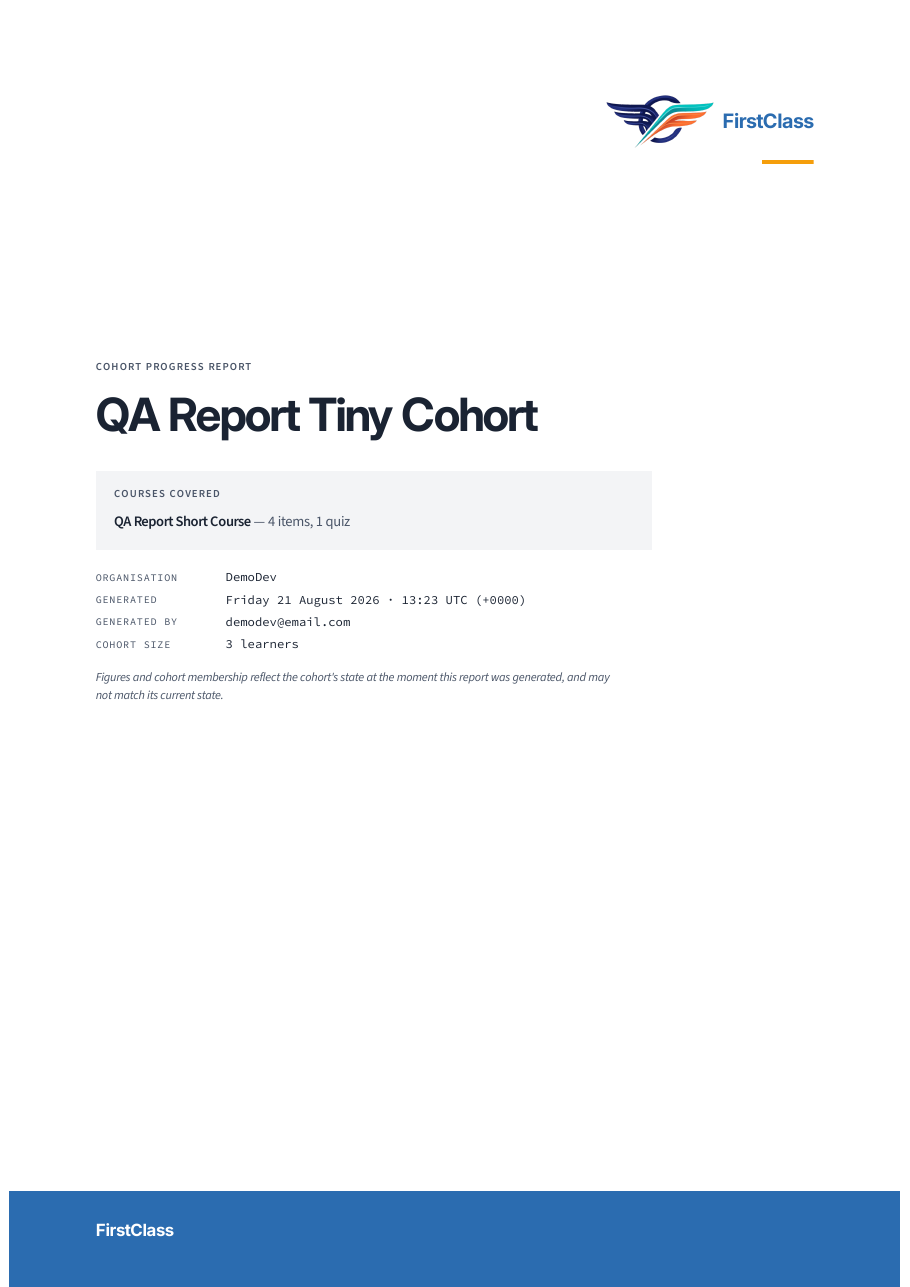
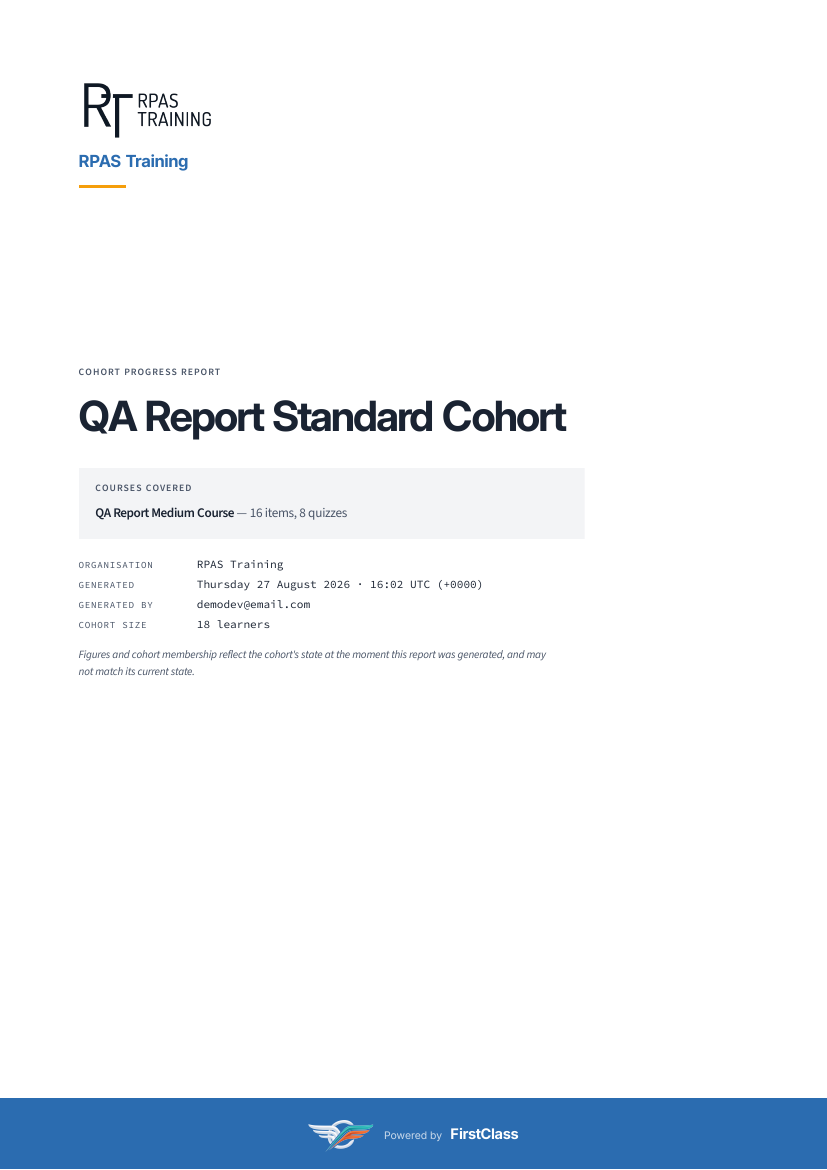
docs(product): describe the organisation-branded report

diff --git a/docs/product/reports.md b/docs/product/reports.md
@@ -1,6 +1,6 @@
 # Cohort Reports
 
-_Last updated: 2026-08-21_
+_Last updated: 2026-08-27_
 
 ## Summary
 
@@ -8,6 +8,7 @@ _Last updated: 2026-08-21_
 - The report holds a cover, a cohort-at-a-glance page, a contents and definitions page, a landscape summary table per course, a detail section per learner, and a cohort-wide analysis of which quiz questions caused the most trouble.
 - Three at-risk rules — no recorded activity, a failed latest quiz attempt, and inactivity beyond a threshold — flag learners identically on the at-a-glance page and in their own section.
 - Generation is triggered on demand from the Django admin and runs in the background; the finished PDF is downloaded through a permission-checked link, never a public media URL.
+- The report leads with the **organisation's** own name and logo; the platform appears only as a small "Powered by" mark naming the site, which cannot be switched off.
 - **Not built:** scheduled or emailed reports, retention or expiry of stored PDFs, and any per-learner or publicly shareable link. See [Limits](#limits).
 
 ## What the Report Is
@@ -20,7 +21,7 @@ The audience is internal educators and staff, so the report uses learners' real 
 
 ## What Is In It
 
-**Cover** — the cohort, its organisation, the courses covered with inactive registrations marked, and when the report was generated and by whom. It states plainly that both the figures and the cohort's membership are a snapshot taken at generation time.
+**Cover** — leads with the organisation's own logo and name as the primary brand, or its name alone set as a wordmark where no logo has been uploaded. Then the cohort, the courses covered with inactive registrations marked, and when the report was generated and by whom. The platform appears only as a small "Powered by" mark naming the site, on the cover and again in every interior page footer — and not at all for a cohort in the site's own default organisation, where the platform already is the brand. The cover states plainly that both the figures and the cohort's membership are a snapshot taken at generation time.
 
 **Cohort at a glance** — headline numbers (cohort size, median completion, how many have not started, how many have completed everything) and a "learners needing attention" list drawn from the at-risk rules, worst-first, each pointing at that learner's own page. The list is capped, and the cap is disclosed — "18 learners flagged, 12 shown" — rather than silently truncated.
 
@@ -54,7 +55,7 @@ Free-text questions have no notion of a correct answer in FLS and are excluded f
 
 ## Generating and Downloading
 
-A report is requested from the Django admin by a staff member who can view the target cohort — through a permission granted on that cohort, or through a staff role on the cohort's organisation, the same two routes the [educator interface](./educator-interface.md#access-control) uses. Generation runs in the background rather than making the requester wait, and the report list shows how far along it is. Only one report can be in flight for a cohort at a time, so a second request while one is running does not start a duplicate. A failed generation surfaces its error in the list and the cohort can be retried straight away.
+A report is requested from the Django admin by a staff member who can view the target cohort — through a permission granted on that cohort, or through a staff role on the cohort's organisation, the same two routes the [educator interface](./educator-interface.md#access-control) uses. Generation runs in the background rather than making the requester wait, and the report list shows how far along it is. Only one report can be in flight for a cohort at a time, so a second request while one is running does not start a duplicate. A failed generation surfaces its error in the list and the cohort can be retried straight away. The downloaded file is named for the organisation and cohort, and the PDF's own document properties name the organisation as author and the site as generator, so a copy passed on to a learner, employer or funder identifies itself as that organisation's record.
 
 See [admin interface](./admin-interface.md#cohort-progress-reports) for the admin flow, and [security and data handling](./security-and-data-handling.md) for the access and privacy posture — a generated report holds learner names, scores and individual answers, and is served through a permission-checked download rather than a media URL.
 
@@ -65,6 +66,8 @@ See [admin interface](./admin-interface.md#cohort-progress-reports) for the admi
 **No retention or expiry.** A generated PDF is kept until an administrator deletes it by hand.
 
 **No shareable link.** A report is reachable only by an authorised staff member through the admin. There is no link that can be given to a learner or an external party.
+
+**The platform attribution cannot be switched off.** A report carries a small "Powered by" mark naming the site on its cover and in every footer, alongside the organisation's own brand, with no setting to remove it. See [roadmap](./roadmap.md).
 
 **Activities and free-text answers are excluded** from completion figures and from the quiz analyses, because FLS records no completion data for activities and no correctness concept for free-text answers.
 

diff --git a/docs/product/admin-interface.md b/docs/product/admin-interface.md
@@ -1,12 +1,12 @@
 # Admin Interface
 
-_Last updated: 2026-08-23_
+_Last updated: 2026-08-27_
 
 ## Summary
 
 - The Django admin is enhanced with the Unfold UI framework, preserving all standard Django admin behaviour.
 - Administrators grant educators access to specific cohorts through per-object permissions.
-- Organisations are created, renamed, and given a logo entirely through the admin, with no delete and no merge. Assigning someone a staff role on an organisation grants access to every cohort inside it, including ones added later.
+- Organisations are created, renamed, and given a logo — optionally a second, reversed one for a dark background — entirely through the admin, with no delete and no merge. Assigning someone a staff role on an organisation grants access to every cohort inside it, including ones added later.
 - An organisation's learners are curated in the admin and only there: an administrator associates a user with an organisation before or independently of any enrolment, and marks a learner removed. Removal is soft — it suspends that person's access to the organisation's courses without touching their memberships, registrations, or progress — and a learner cannot be deleted outright.
 - A staff user generates a cohort's progress report from the admin by picking a cohort and triggering generation; the choice is limited to cohorts that user is allowed to see, generation runs in the background, and the finished PDF downloads through a permission-checked link rather than a public URL.
 - The admin path is configurable via `DJANGO_ADMIN_URL`, so production can move it off the default location.
@@ -25,7 +25,7 @@ Each cohort's admin detail page carries a permissions tab, where an administrato
 
 ## Organisation Management
 
-Organisations are managed entirely through the Django admin: an administrator creates an organisation, renames it, uploads a logo, and assigns staff to it. What an organisation is, and where it sits relative to a site, is described in [multi-tenancy and isolation](./multi-tenancy-and-isolation.md#organisations).
+Organisations are managed entirely through the Django admin: an administrator creates an organisation, renames it, uploads a logo, and assigns staff to it. An organisation can also supply a second, reversed logo for use on a strong colour fill; both are optional, and today only the first is drawn anywhere. What an organisation is, and where it sits relative to a site, is described in [multi-tenancy and isolation](./multi-tenancy-and-isolation.md#organisations).
 
 There is no delete and no merge — both are refused outright. This is a deliberate limit for this release, not an oversight. There is also no bulk import, and no way to manage organisations outside the admin.
 

diff --git a/docs/product/roadmap.md b/docs/product/roadmap.md
@@ -1,6 +1,6 @@
 # Roadmap
 
-_Last updated: 2026-08-23_
+_Last updated: 2026-08-27_
 
 ## Summary
 
@@ -146,8 +146,12 @@ Completing a course produces a finish page but no certificate or downloadable co
 
 **Status: Not built — deliberate deferrals.**
 
-The [cohort report](./reports.md) itself is built and shipped. Two capabilities around it were deliberately left out of this release rather than overlooked.
+The [cohort report](./reports.md) itself is built and shipped. Several capabilities around it were deliberately left out of this release rather than overlooked.
 
 **No scheduled or emailed delivery.** A report is only ever produced on demand, by a staff member triggering it in the admin, and whoever wants it must return there to download it. There is no recurring generation and no notification when one finishes. The feature is built so that adding delivery later is a small addition — the same generation runs regardless of what starts it — but that addition is not here.
+
+**No control over the platform's attribution mark.** A report carries a small "Powered by" mark naming the site on its cover and in every footer, alongside the organisation's own brand, and there is no setting to remove it. A deployment cannot produce a fully white-labelled report today.
+
+**No organisation descriptor or strapline field.** An organisation's identity on the report is its name and logo only. There is no field for a second line such as an accreditation number or tagline, which a regulated training provider would want; a project needing one must fork.
 
 **At-risk rules are not configurable.** The rules the report flags learners against are a fixed list in code, with no setting to add, remove, reorder, or retune a threshold. A project needing its own rule must fork. A future release moves rule selection and thresholds into the database, replacing the fixed list; until then this is the extension point to ask about. See [configuration and extension](./configuration-and-extension.md).

diff --git a/docs/product/multi-tenancy-and-isolation.md b/docs/product/multi-tenancy-and-isolation.md
@@ -1,6 +1,6 @@
 # Multi-Tenancy and Isolation
 
-_Last updated: 2026-08-23_
+_Last updated: 2026-08-27_
 
 ## Summary
 
@@ -59,7 +59,7 @@ This is the canonical statement of what an organisation is and is not; other doc
 - **Management commands run without a request**, so there is no site to scope to and the filter does not apply — commands see all sites' records and must filter explicitly. This is deliberate: it is what lets a command load content or run maintenance across sites.
 - **Site-aware user groups are not available.** A site-scoped equivalent of Django's groups is drafted but not enabled; permissions are granted per user. See [roadmap](./roadmap.md).
 - **Organisations cannot be deleted or merged**, and there is no nested (parent/child) organisation structure.
-- **No per-organisation domain, subdomain, colours, or theme.** All organisations on a site share the site's domain and branding; the only visual distinction is a small logo (or initials monogram) and name in the course player — see [learner experience](./learner-experience.md).
+- **No per-organisation domain, subdomain, colours, or theme.** All organisations on a site share the site's domain and theme, and there is no per-organisation brand colour. An organisation's name and logo are what distinguish it visually: a small mark in the course player — see [learner experience](./learner-experience.md) — and the primary brand on the cover of a [cohort progress report](./reports.md).
 - **Courses, course interest, applications, and recommendations are not organisation-scoped** in this release — they remain shared across the whole site. See [roadmap](./roadmap.md).
 
 ## Per-Site Configuration

diff --git a/docs/product/configuration-and-extension.md b/docs/product/configuration-and-extension.md
@@ -19,6 +19,7 @@ These settings control visual and email branding without any template change. Al
 | Setting | Effect |
 |---|---|
 | `HEADER_LOGO_STATIC_PATH` | Logo in the navigation bar |
+| `HEADER_LOGO_ON_DARK_STATIC_PATH` | Reversed logo variant, used where the platform mark sits on a strong colour fill — today, the [cohort report](./reports.md) cover band |
 | `FAVICON_STATIC_PATH` | Browser tab favicon |
 | `HEADER_TITLE` | Text in the navigation bar, alongside or instead of the logo |
 | `HEADER_TITLE_STYLE` | Inline CSS applied to the header title |

diff --git a/spec_dd/2. in progress/report-rendered-with-org-name/todo.md b/spec_dd/2. in progress/report-rendered-with-org-name/todo.md
@@ -57,7 +57,7 @@ Checklist for taking this spec from idea to merged PR. Tick items as they are co
 
 ## 10. Product documentation
 
-- [ ] (cmd) Run `/fls-dev:update_product_docs` to update docs/product/ for this feature
+- [x] (cmd) Run `/fls-dev:update_product_docs` to update docs/product/ for this feature
 - [ ] (user) Review the updated documentation
 
 ## 11. Upgrade notes
